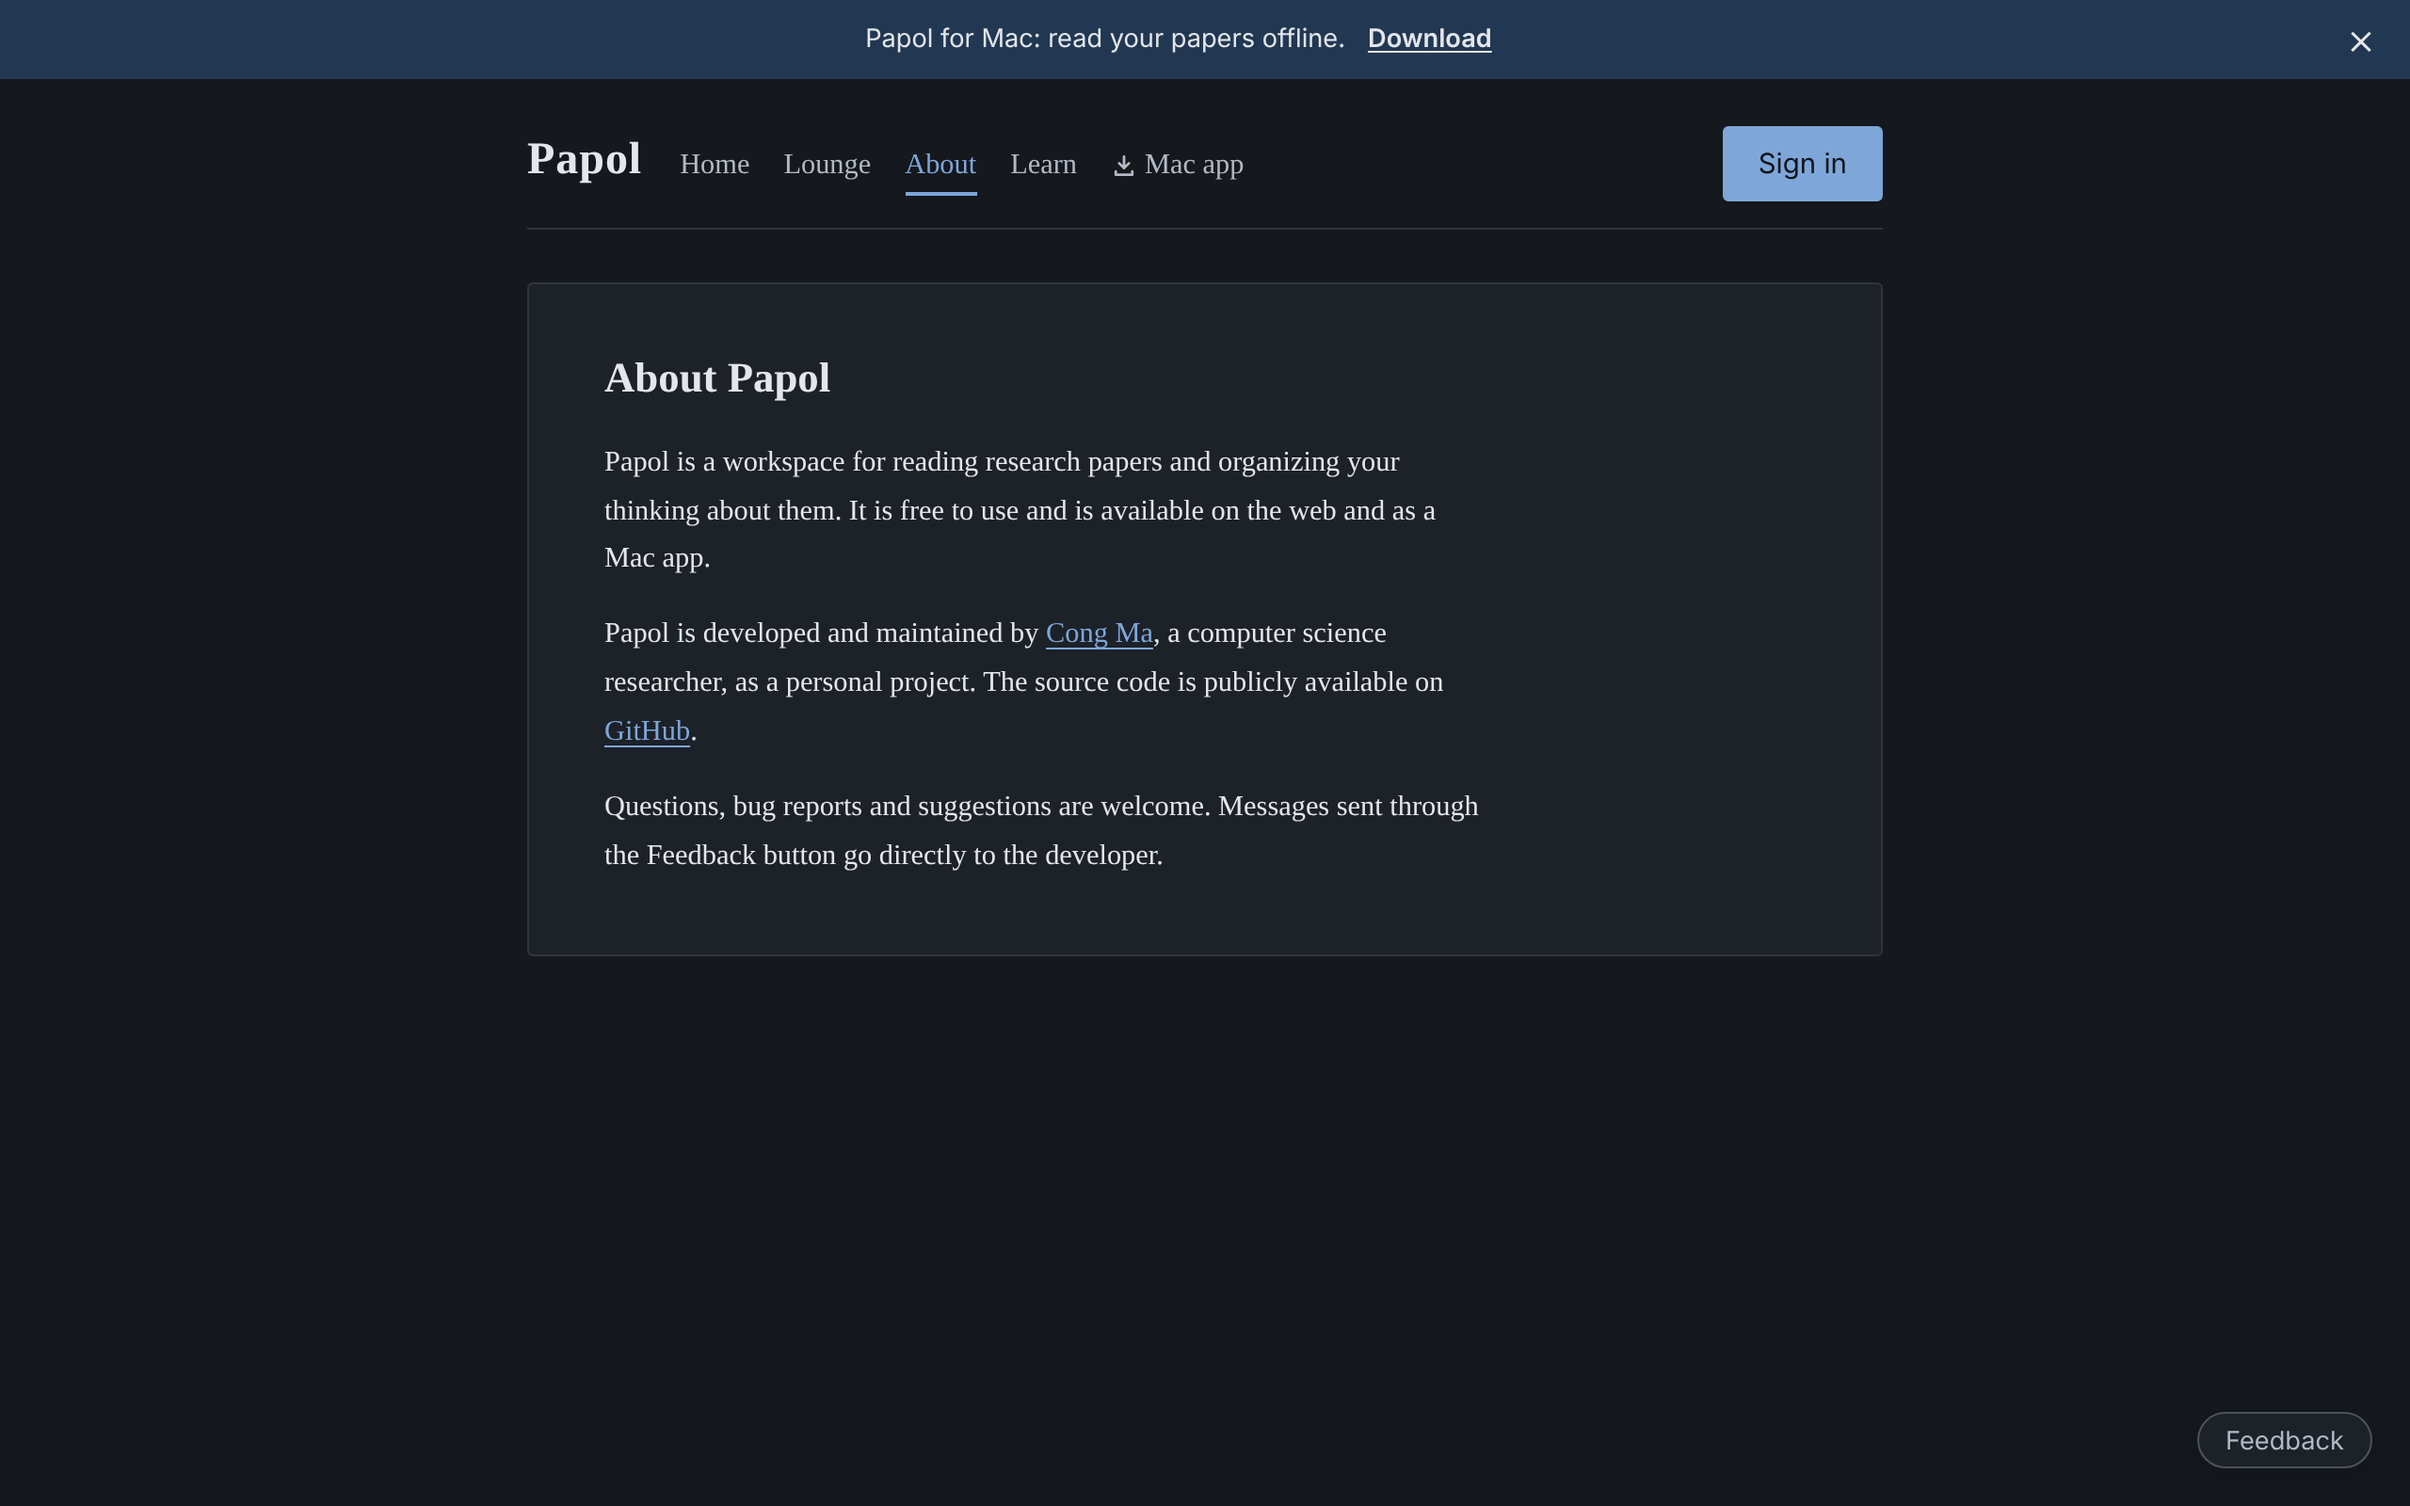
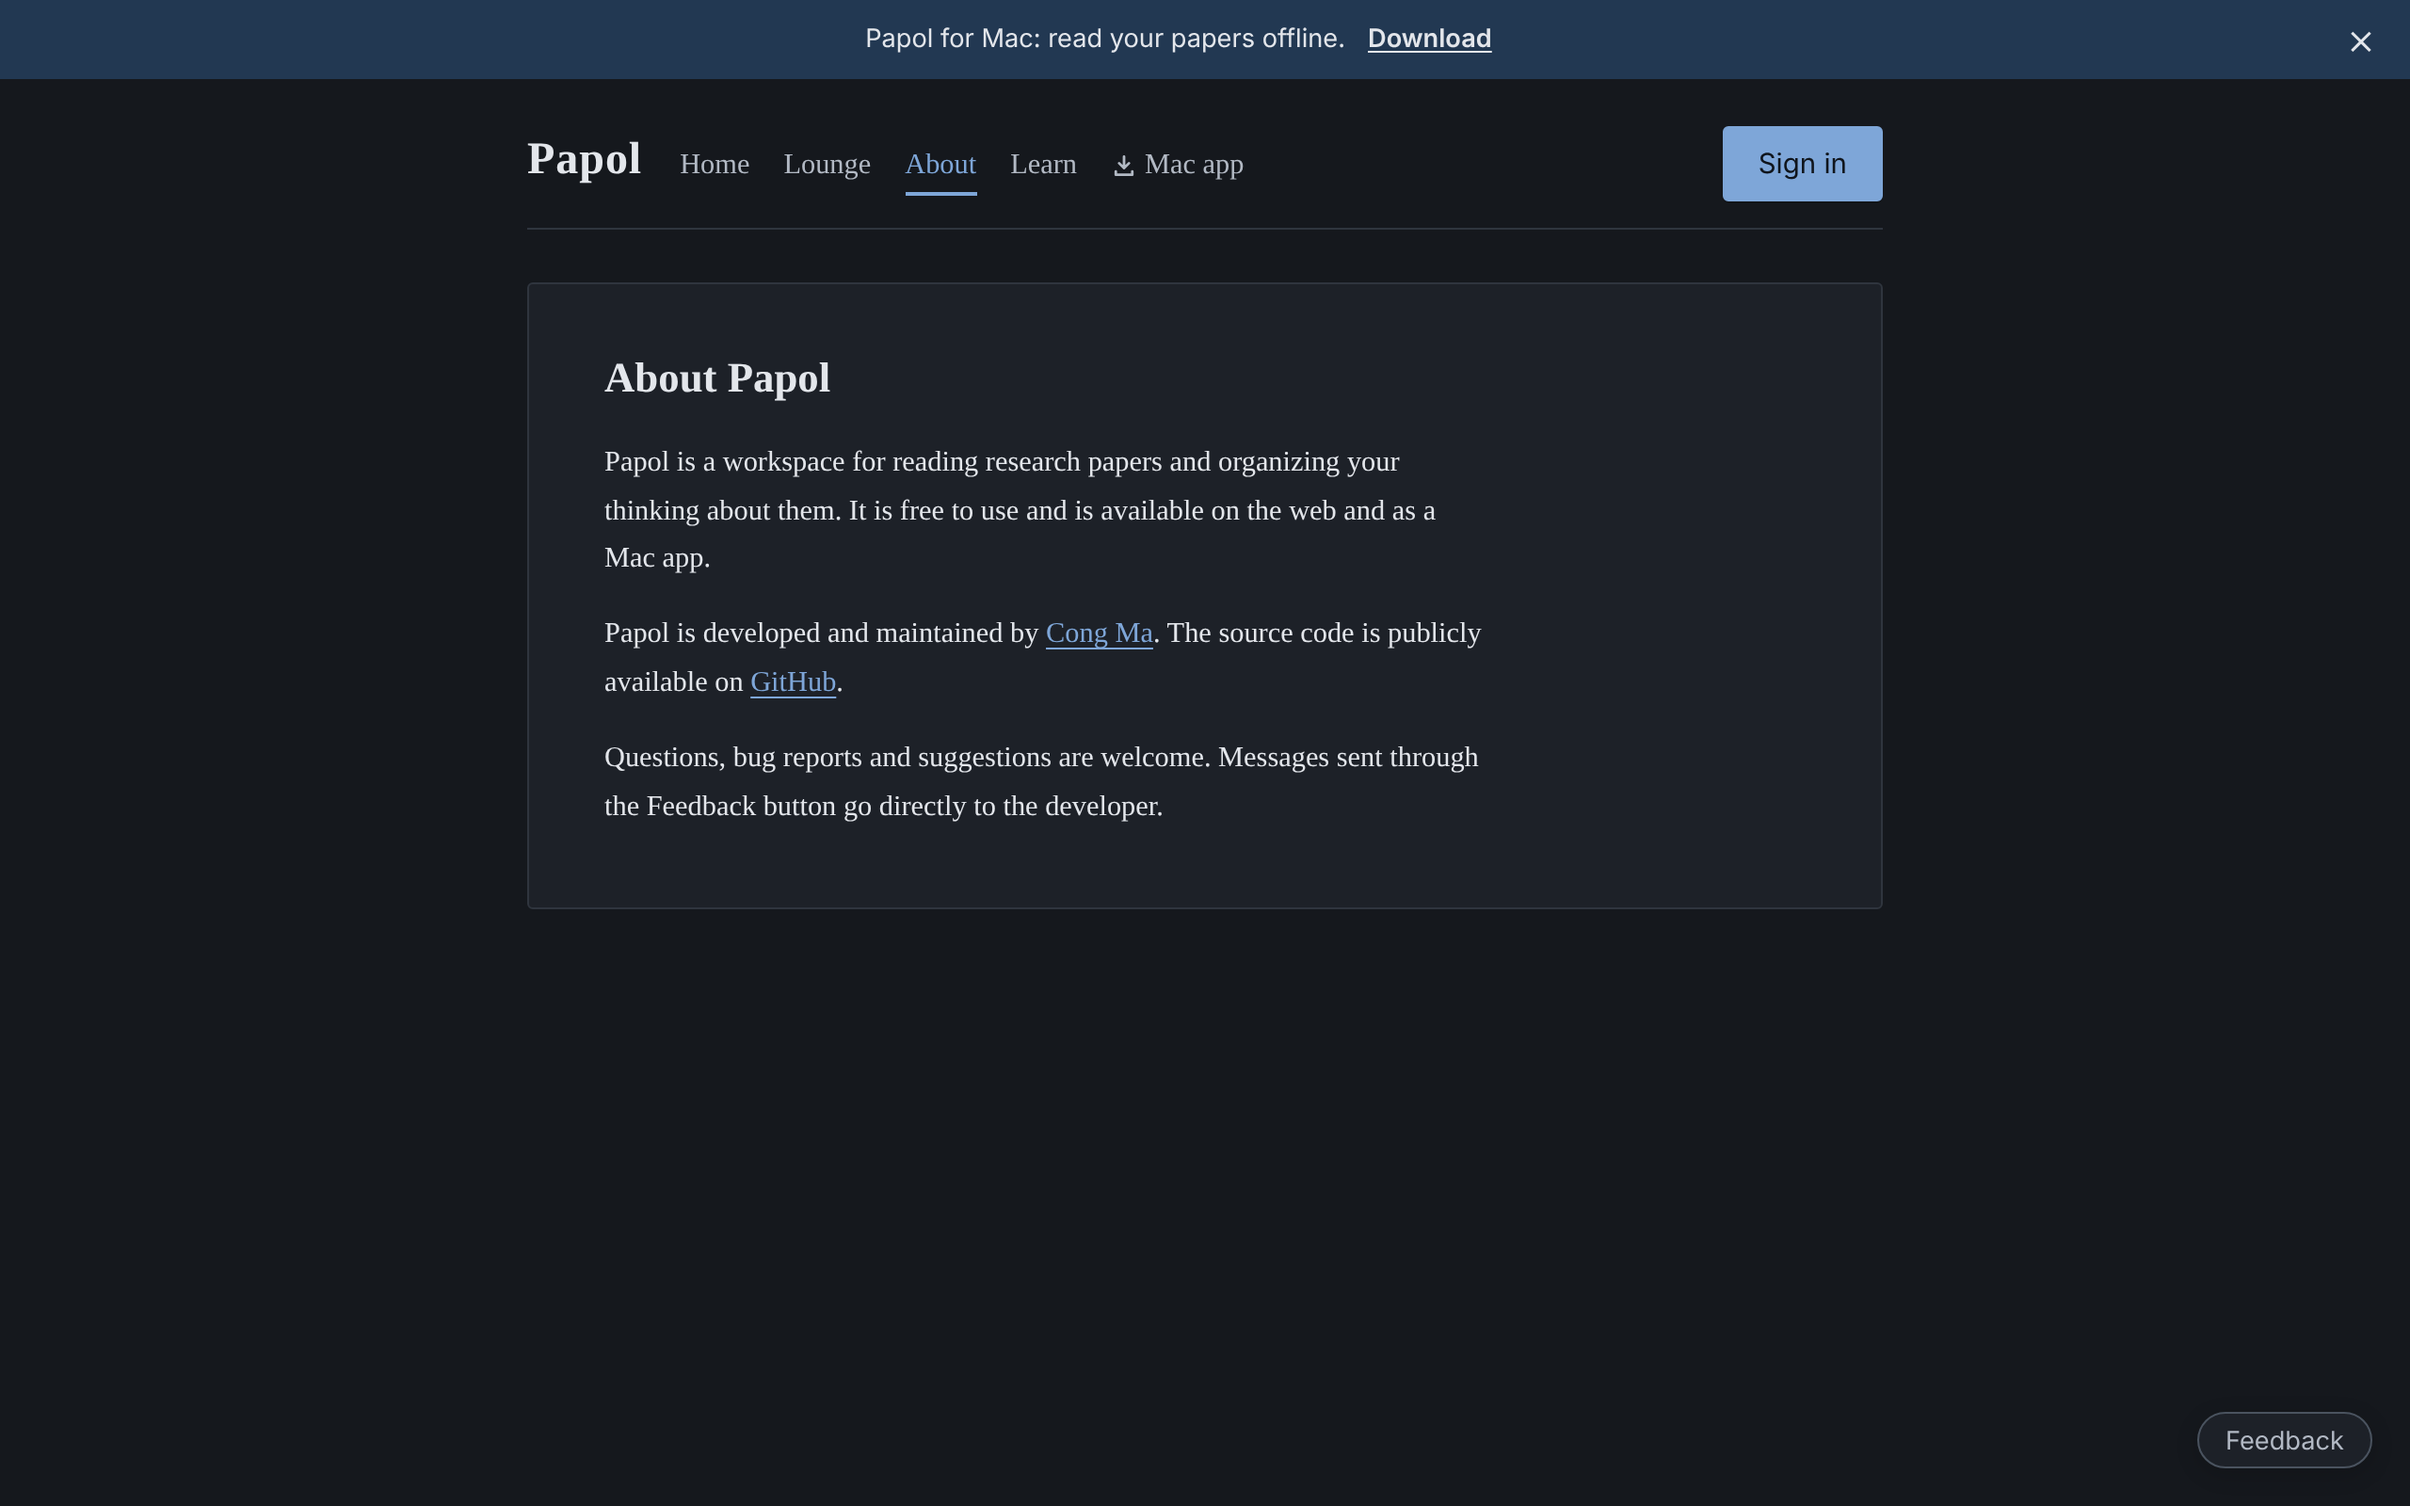
Name the developer without the description
Claude-Session: https://claude.ai/code/session_01PQZzMUqUHHNAJfh3HyCwEh

Changed region(s): [[0.25, 0.4062, 0.625, 0.5938]]

diff --git a/frontend/src/components/AboutPage.jsx b/frontend/src/components/AboutPage.jsx
@@ -13,9 +13,8 @@ export default function AboutPage() {
         </p>
         <p>
           Papol is developed and maintained by{' '}
-          <a href="https://mc-pony.com" target="_blank" rel="noreferrer">Cong Ma</a>,
-          a computer science researcher, as a personal project. The source code is
-          publicly available on{' '}
+          <a href="https://mc-pony.com" target="_blank" rel="noreferrer">Cong Ma</a>.
+          The source code is publicly available on{' '}
           <a href="https://github.com/hflsmax/papol" target="_blank" rel="noreferrer">GitHub</a>.
         </p>
         <p>
